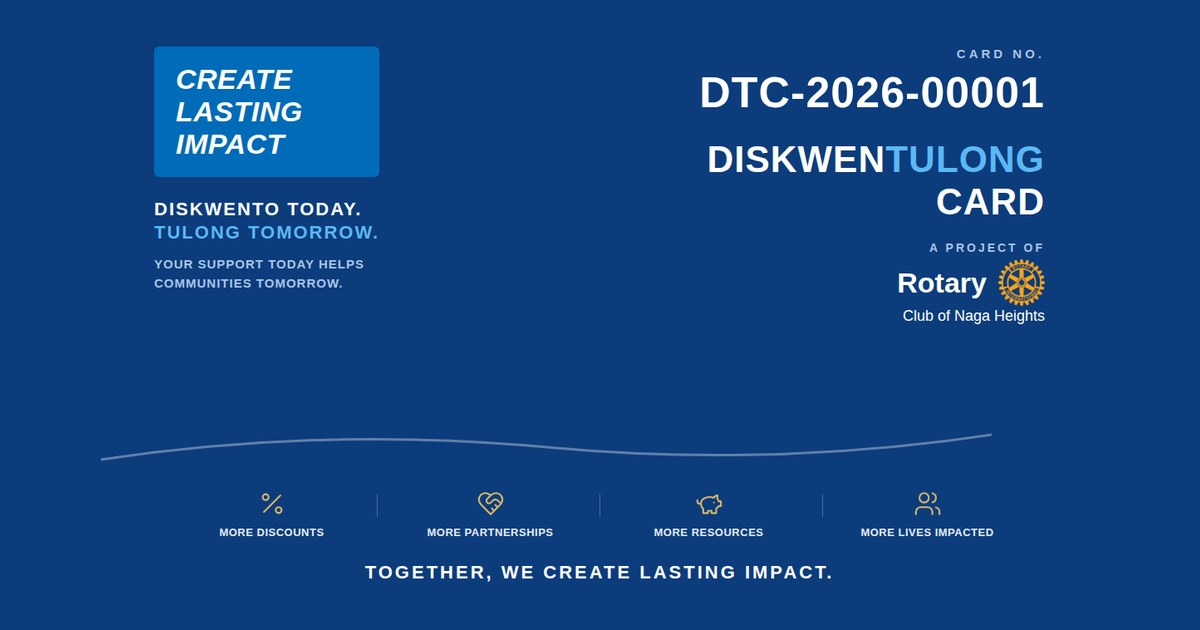
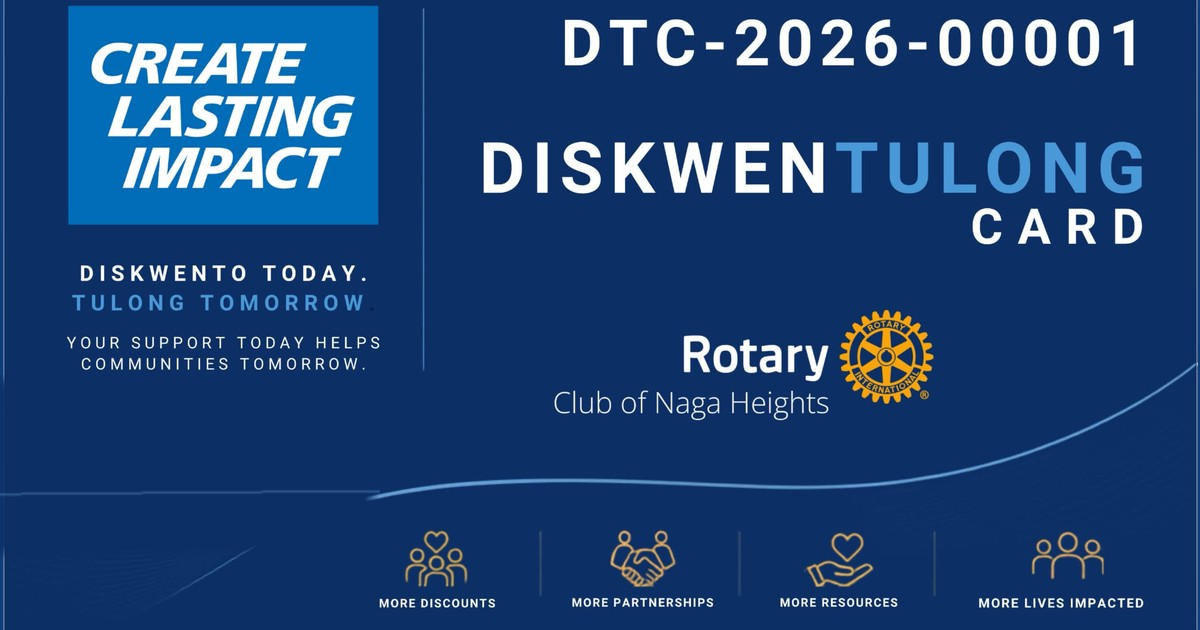
Swap in official DTC card artwork, fix stray branding issues
Replaces the sample card graphic on /diskwentulong/ (and its social-share
JPEG) with the club's official card design: removes a stray "A PROJECT OF"
line, swaps a hand-drawn gear icon for the real Rotary International logo,
and removes a "Valid Until 12/31/2027" line that was briefly added and then
reverted per the original no-date reasoning.

Claude-Session: https://claude.ai/code/session_01TYusNXRiWnfMpmWJPHXair

diff --git a/docs/DTC-DESIGN.md b/docs/DTC-DESIGN.md
@@ -1,5 +1,5 @@
 # DiskwenTulong Card (DTC) — Design Detail
-Version: v7.5 · Last updated: 2026-07-30
+Version: v7.7 · Last updated: 2026-08-03
 Mirrors: Google Drive "PROPOSAL - DTC Phase 2 Workflow v2.txt" and
 "PROPOSAL - DTC Cardholder Brochure Page v1.txt" — if those Drive docs
 and this file ever disagree, ask the user which is current before
@@ -182,12 +182,26 @@ Education · Other
 Structure:
 1. "What is DTC" — informational section (real copy written and live,
    but still a first draft — see Open items; not reviewed/approved yet).
-   As of 2026-07-21, a sample card graphic sits beside this text —
-   self-rendered (HTML/CSS composited to a transparent PNG, not a
-   photo), showing the real `DTC-{BATCH}-{NNNNN}` number format
+   As of 2026-07-21, a sample card graphic sits beside this text,
+   showing the real `DTC-{BATCH}-{NNNNN}` number format
    (`DTC-2026-00001`) rather than an earlier photographed mockup's
-   placeholder number, and with no "Valid Until" line (removed —
-   showing a fixed date on a generic sample card was misleading).
+   placeholder number. **Updated 2026-08-03**: replaced with the
+   club's official card artwork (supplied directly by the user, not
+   self-rendered) — also fixed a stray "A PROJECT OF" line and
+   swapped a hand-drawn gear icon for the real Rotary International
+   logo (`assets/rotary-logo.png`, same file the site nav uses). The
+   official artwork's "Valid Until 12/31/2027" line/calendar icon was
+   tried briefly the same day, then removed again at the user's
+   request — back to the original 2026-07-21 no-date reasoning (a
+   generic sample card pairing an arbitrary sample number with a real
+   fixed expiration date reads as misleading). The card's decorative
+   background wave line, which passed behind that icon/text, was
+   redrawn by hand to stay continuous after the removal — a minor
+   background flourish, not pixel-perfect but close. Still a
+   transparent PNG
+   (`assets/diskwentulong/dtc-card.png`, cropped from the supplied
+   artwork with the background flood-filled to transparent, not a
+   photo).
 2. Partner Merchants as **category thumbnails**
 3. Clicking a category opens a popup showing merchant thumbnails
    (logo + name) for that category only

diff --git a/CLAUDE.md b/CLAUDE.md
@@ -187,10 +187,14 @@ Tailwind 3.4.17 (CDN), vanilla JS, Lucide icons 0.263.0 (CDN), Google Fonts
 - `/diskwentulong/`'s Terms & Conditions modal is now a MANDATORY gate
   (2026-07-21) — the X button, click-outside, and Escape-to-close were
   all removed; only clicking "I Understand" dismisses it, matching
-  `/verify/`. Also added a self-rendered sample card graphic (real
-  card number format `DTC-2026-00001`, no "Valid Until", transparent
-  PNG background, not a photo) beside the "What is DTC" description.
-  See docs/DTC-DESIGN.md §6.
+  `/verify/`. Also added a sample card graphic (real card number format
+  `DTC-2026-00001`, transparent PNG background, not a photo) beside the
+  "What is DTC" description. **Updated 2026-08-03**: swapped in the
+  club's official card artwork — fixes a stray "A PROJECT OF" line and
+  a hand-drawn gear icon (now the real Rotary logo). A "Valid Until
+  12/31/2027" line was added and then removed again same day, per the
+  original 2026-07-21 no-date reasoning. See docs/DTC-DESIGN.md §6's
+  sample-card note for the full history.
 
 ## Content management (Google Drive)
 A Google Drive connector is available to you, but you have no
